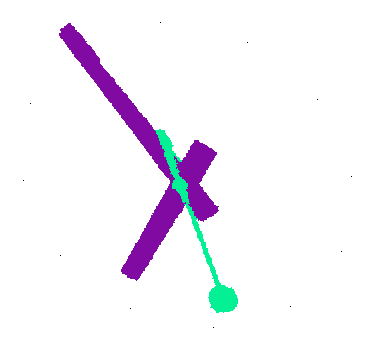
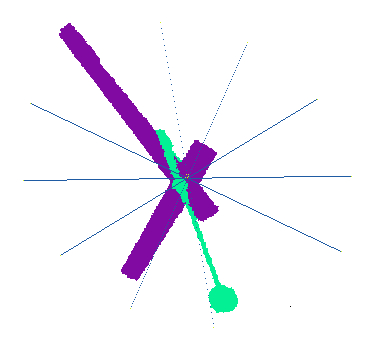
get diameters and center

Changed region(s): [[0.4412, 0.4913, 0.5588, 0.5491]]

diff --git a/center.js b/center.js
@@ -3,20 +3,86 @@ const Point = require('./point');
 const Mass = require('./mass');
 const BFS = require('./BFS');
 const cropper = require('./cropper');
+const math = require('mathjs');
 
 
 exports.find = function (image, image_name) {
-  const params = findDiameter(image, image_name);
+  const params = findDiameter(image);
   let timeBlocks = orderTimeBlocks(params.timeBlocks, params.center, image, image_name);
   timeBlocks = removeOneIfOdd(timeBlocks);
-  image.write(`./result/${image_name}/with_diameters.jpg`);
+  const diameters = getAllDiameters(timeBlocks, image);
+  const center = getCenter(diameters, image);
+  image.setPixelColor(colors.FULLRED, center[0], center[1]);
+  image.write(`./result/${image_name}/7.diameters.jpg`);
+  return {
+    diameters,
+    center,
+  };
 };
 
+
+function getCenter(diameters) {
+  const center = [0, 0];
+  let n = 0;
+  for (let i = 0; i < diameters.length; i++) {
+    const line1 = diameters[i];
+    for (let j = 0; j < diameters.length; j++) {
+      if (i !== j) {
+        n++;
+        const line2 = diameters[j];
+        const mid = math.intersect(line1.p1, line1.p2, line2.p1, line2.p2);
+        center[0] += mid[0];
+        center[1] += mid[1];
+      }
+    }
+  }
+  center[0] /= (n);
+  center[1] /= (n);
+  return center;
+}
+
 function removeOneIfOdd(timeBlocks) {
+  if (timeBlocks.length === 12) {
+    return timeBlocks;
+  }
+  const i = biggestAngleChange(timeBlocks);
+  console.log('remover', i);
+  timeBlocks.splice(((i + 1) - 6) % timeBlocks.length, 1);
   return timeBlocks;
 }
 
-function orderTimeBlocks(timeBlocks, center, image, image_name) {
+function getAllDiameters(timeBlocks, image) {
+  const offset = timeBlocks.length / 2;
+  const diameters = [];
+  for (let i = 0; i < offset; i++) {
+    const p1 = timeBlocks[i].massCenter;
+    const p2 = timeBlocks[(i + offset)].massCenter;
+    paintDiameter(image, p1, p2, colors.BLUE, colors.BLUE);
+    diameters.push({
+      p1,
+      p2,
+    });
+  }
+  return diameters;
+}
+
+function biggestAngleChange(timeBlocks) {
+  let maxDiff = -1;
+  let start = -1;
+  for (let i = 0; i < timeBlocks.length; i++) {
+    let difference = timeBlocks[(i + 1) % timeBlocks.length].angle - timeBlocks[i].angle;
+    if (i === timeBlocks.length - 1) {
+      difference = ((2 * Math.PI) - timeBlocks[i].angle) - timeBlocks[(i + 1) % timeBlocks.length].angle;
+    }
+    if (maxDiff < difference) {
+      maxDiff = difference;
+      start = i;
+    }
+  }
+  return start;
+}
+
+function orderTimeBlocks(timeBlocks, center) {
   const referenceVector = Point.getVector(center, timeBlocks[0].massCenter);
   for (let i = 0; i < timeBlocks.length; i++) {
     const p = timeBlocks[i].massCenter;
@@ -26,22 +92,14 @@ function orderTimeBlocks(timeBlocks, center, image, image_name) {
   timeBlocks.sort((a, b) => {
     return a.angle - b.angle;
   });
-  for (let i = 0; i < timeBlocks.length; i++) {
-    const im = image.clone();
-    const p = timeBlocks[i].massCenter;
-    const vectorI = Point.getVector(center, p);
-    Point.drawVector(im, colors.BLUE, vectorI);
-    im.write(`./result/${image_name}/timeblock${i}.jpg`);
-  }
   return timeBlocks;
 }
 
-function findDiameter(image, image_name) {
+function findDiameter(image) {
   const timeBlocks = Mass.center(image, colors.YELLOW);
-  const pointImage = timeBlocksToPoints(image, timeBlocks);
-  const diameters = getOpositeSide(timeBlocks, pointImage, image_name);
+  timeBlocksToPoints(image, timeBlocks);
+  const diameters = getOpositeSide(timeBlocks);
   const center = averageDiameter(diameters);
-  image.setPixelColor(colors.FULLRED, center[0], center[1]);
   return {
     timeBlocks,
     center,

diff --git a/processor.js b/processor.js
@@ -8,7 +8,7 @@ exports.getHour = function (path, image_name) {
     openImage(path).then((image) => {
       const clock = Clock.get(image, image_name);  // get an image with the clock
       const segmentedClock = Clock.segment(clock, image_name);
-      const diameter = Center.find(segmentedClock, image_name, image);
+      const diameter = Center.find(segmentedClock, image_name);
 
 
       // let handles = Handles.get(image, image_name);
